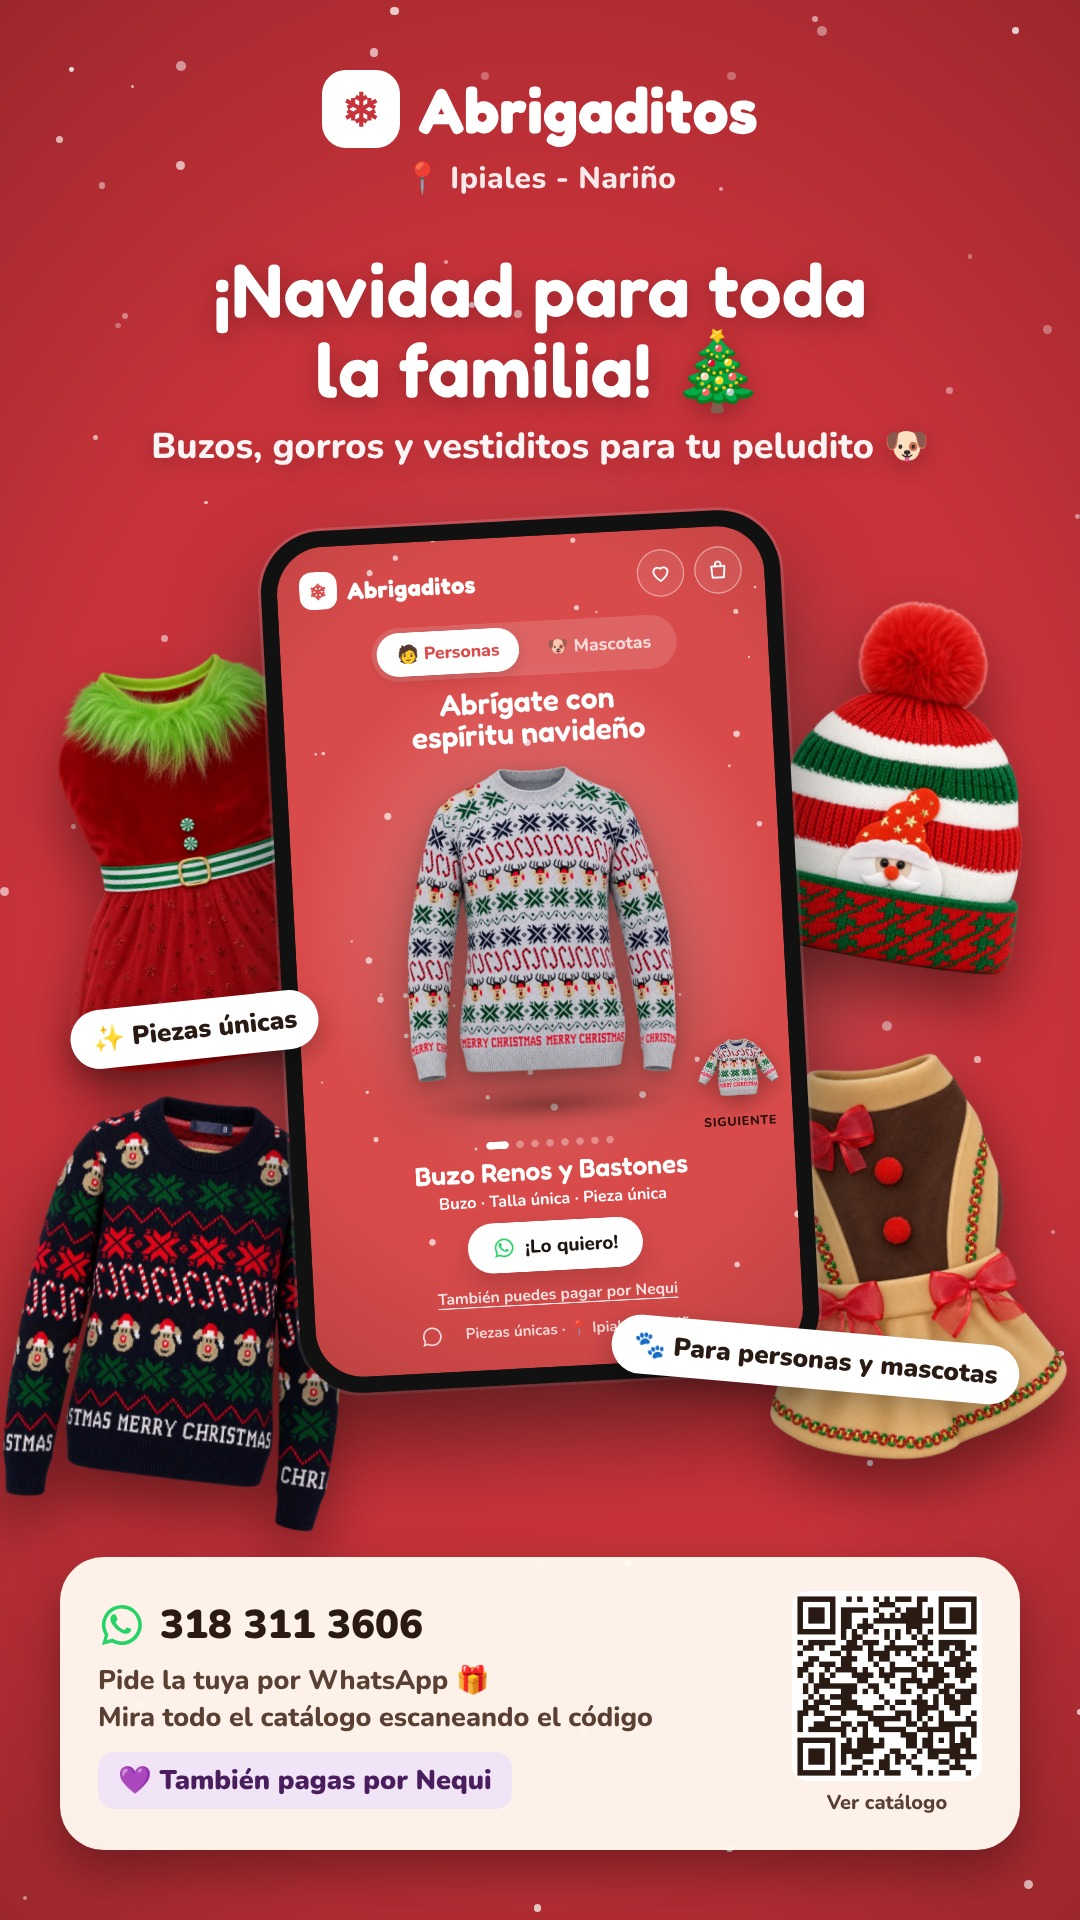
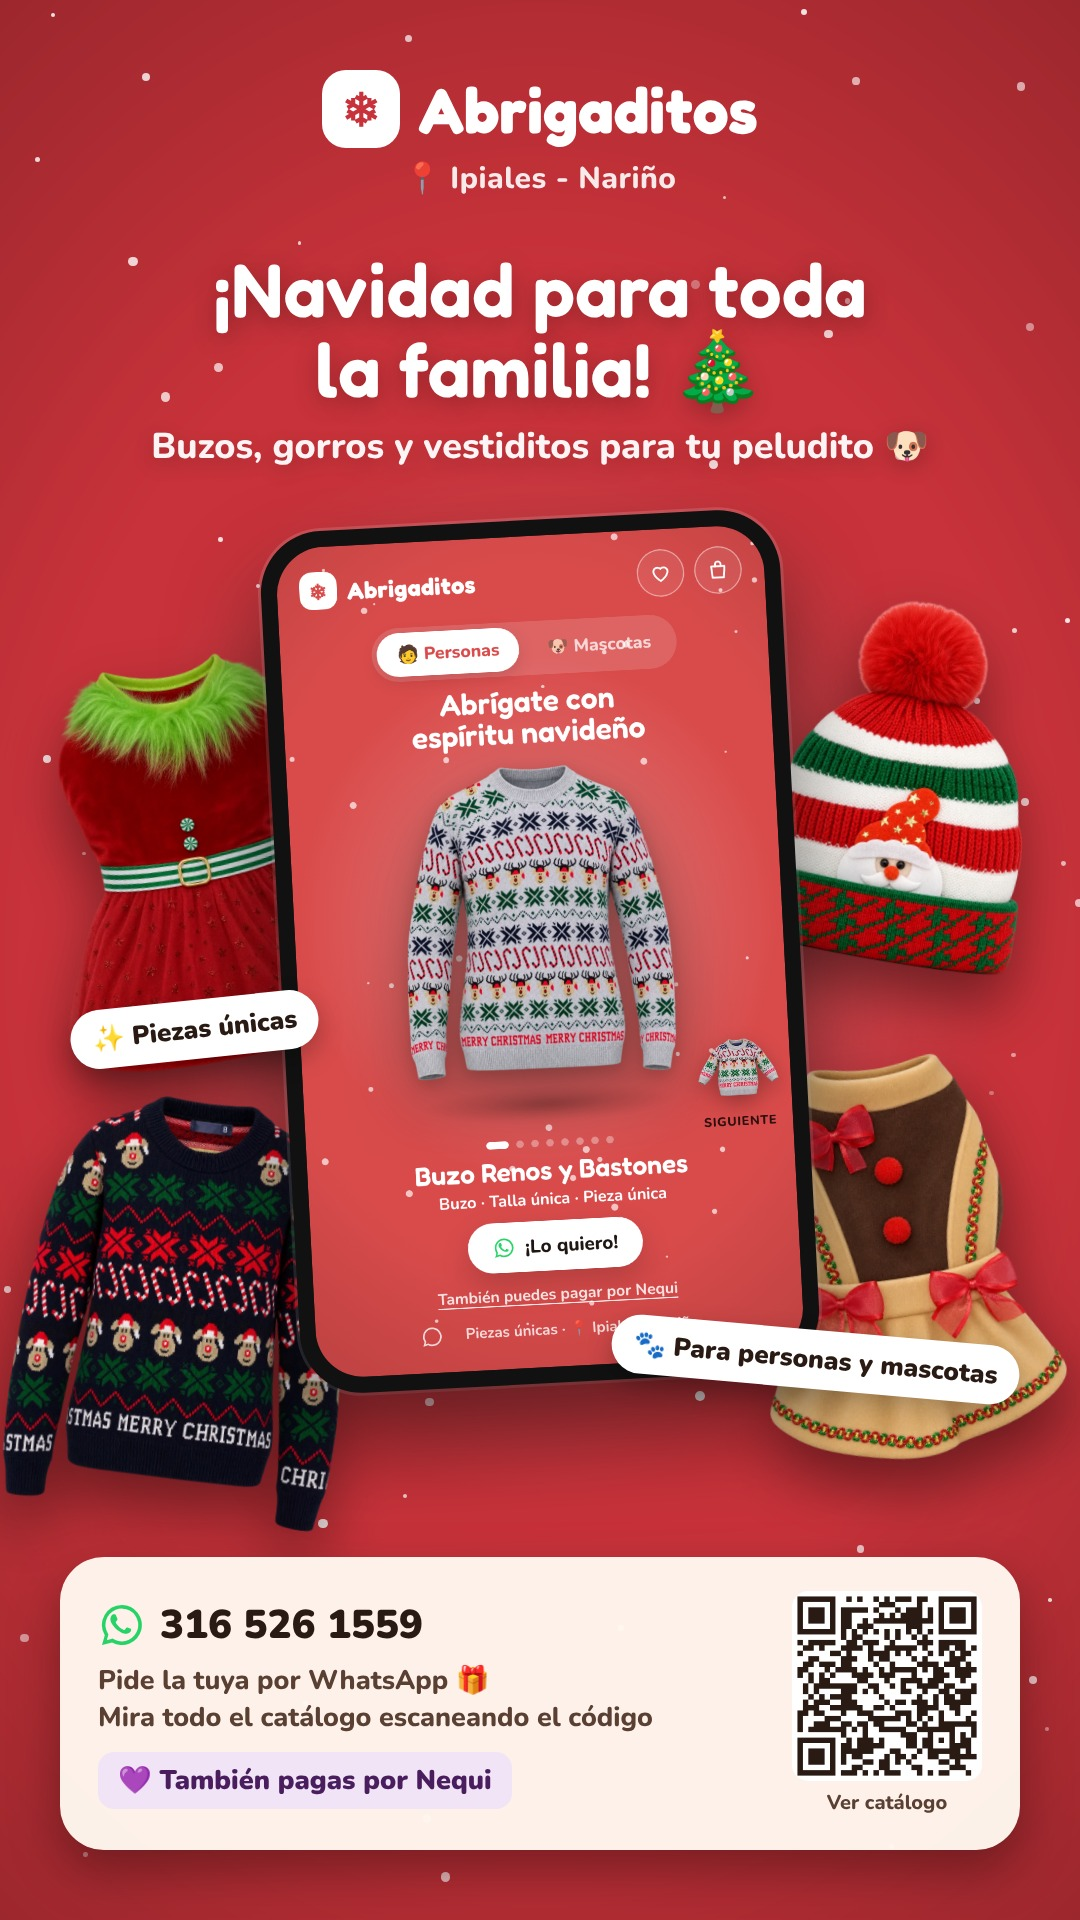
Corrige transición entre prendas y actualiza WhatsApp/Nequi a 316 526 1559
- La prenda nueva ya no aparece un instante con la foto anterior:
  se espera a que la imagen esté decodificada antes de animarla.
- Las medidas de la animación usan offset* (no las altera la
  animación de salida) y los toques rápidos se encolan.
- Número de WhatsApp, enlace wa.me y Nequi actualizados, también
  en la imagen para estados.

Claude-Session: https://claude.ai/code/session_012212wd3Q1MA1s41c9hnRRM

Changed region(s): [[0.3667, 0.4062, 0.6417, 0.5625], [0.275, 0.8438, 0.3361, 0.875], [0.3667, 0.8438, 0.3972, 0.875]]

diff --git a/index.html b/index.html
@@ -179,7 +179,7 @@ footer svg{width:18px;height:18px}
   </div>
 
   <footer>
-    <a href="https://wa.me/573183113606" target="_blank" rel="noopener" aria-label="WhatsApp">
+    <a href="https://wa.me/573165261559" target="_blank" rel="noopener" aria-label="WhatsApp">
       <svg viewBox="0 0 24 24" fill="currentColor"><path d="M12 2a10 10 0 0 0-8.6 15.1L2 22l5-1.3A10 10 0 1 0 12 2zm0 18.2c-1.5 0-3-.4-4.3-1.2l-.3-.2-3 .8.8-2.9-.2-.3A8.2 8.2 0 1 1 12 20.2z"/></svg>
     </a>
     <span style="font-size:12px;font-weight:700">Piezas únicas · 📍 Ipiales - Nariño</span>
@@ -199,8 +199,8 @@ footer svg{width:18px;height:18px}
 
 <script>
 /* ======== CONFIGURACIÓN ======== */
-const WHATSAPP = "573183113606";
-const NEQUI = "318 311 3606";            // ← aquí va el número de Nequi cuando lo tengas, ej: "300 123 4567"
+const WHATSAPP = "573165261559";
+const NEQUI = "316 526 1559";
 
 /* bg = color de fondo, ink = color del texto (claro u oscuro), price = "" hasta definirlo */
 const CATALOGO = {
@@ -242,10 +242,6 @@ const reduce = matchMedia("(prefers-reduced-motion: reduce)").matches;
 let favs=[]; try{favs=JSON.parse(localStorage.getItem("abrigaditos-favs")||"[]")}catch(e){}
 const saveFavs=()=>{try{localStorage.setItem("abrigaditos-favs",JSON.stringify(favs))}catch(e){}};
 
-// Precarga
-Object.entries(CATALOGO).forEach(([c,d])=>d.items.forEach(it=>{
-  (isPet(c)?["espalda","panza"]:["espalda"]).forEach(s=>{const i=new Image();i.src=src(it,c,s)});
-}));
 
 const items=()=>CATALOGO[cat].items;
 const wa = it => `https://wa.me/${WHATSAPP}?text=${encodeURIComponent(`¡Hola! 🎄 Me interesa el ${it.name} que vi en Abrigaditos. ¿Sigue disponible?`)}`;
@@ -282,35 +278,61 @@ function render(first){
   paintTheme(it); setImages(it); paintInfo(it); paintNext();
 }
 
-function go(dir){
-  if(busy) return; busy=true;
-  const list=items(); const newIdx=(idx+dir+list.length)%list.length;
-  const it=list[newIdx];
-  const D = reduce?1:1;
-  // 1) La prenda actual sale
-  const out=product.animate(
-    dir>0?[{transform:"translate(-50%,-50%)",opacity:1},{transform:"translate(-115%,-62%) scale(.55) rotate(-12deg)",opacity:0}]
-         :[{transform:"translate(-50%,-50%)",opacity:1},{transform:"translate(20%,-40%) scale(.55) rotate(12deg)",opacity:0}],
-    {duration:reduce?1:420,easing:"cubic-bezier(.5,0,.75,0)",fill:"forwards"});
-  paintTheme(it);
-  out.onfinish=()=>{
-    idx=newIdx; setImages(it); paintInfo(it);
-    // 2) La nueva entra desde la miniatura (adelante) o desde la izquierda (atrás)
-    const pr=product.getBoundingClientRect(), nr=nextBtn.getBoundingClientRect();
-    const dx=(nr.left+nr.width/2)-(pr.left+pr.width/2), dy=(nr.top+nr.height/2)-(pr.top+pr.height/2);
-    const s=nr.width/pr.width;
+/* Carga y decodifica una imagen antes de mostrarla (evita que se vea la prenda anterior) */
+const decoded={};
+function loadImg(url){
+  if(!decoded[url]) decoded[url]=new Promise(res=>{
+    const i=new Image(); i.src=url;
+    (i.decode?i.decode():new Promise((ok,ko)=>{i.onload=ok;i.onerror=ko})).then(res,res);
+  });
+  return decoded[url];
+}
+const wait=ms=>new Promise(r=>setTimeout(r,ms));
+const finished=a=>new Promise(r=>{a.onfinish=r;a.oncancel=r});
+
+let queued=0;
+async function go(dir){
+  if(busy){ queued=dir; return; }   // recuerda el último toque y lo ejecuta al terminar
+  busy=true;
+  const watchdog=setTimeout(()=>{busy=false},4000);   // nunca se queda trabada
+  try{
+    const list=items(); const newIdx=(idx+dir+list.length)%list.length;
+    const it=list[newIdx];
+    // Empieza a cargar las fotos nuevas mientras sale la actual
+    const ready=Promise.all([loadImg(src(it,cat,"espalda")), isPet(cat)?loadImg(src(it,cat,"panza")):null]);
+    // 1) La prenda actual sale
+    const out=product.animate(
+      dir>0?[{transform:"translate(-50%,-50%)",opacity:1},{transform:"translate(-115%,-62%) scale(.55) rotate(-12deg)",opacity:0}]
+           :[{transform:"translate(-50%,-50%)",opacity:1},{transform:"translate(20%,-40%) scale(.55) rotate(12deg)",opacity:0}],
+      {duration:reduce?1:420,easing:"cubic-bezier(.5,0,.75,0)",fill:"forwards"});
+    paintTheme(it);
+    await finished(out);
+    await Promise.race([ready, wait(2500)]);
+    idx=newIdx; setImages(it);
+    // Espera a que la foto nueva esté lista DENTRO de la página (la anterior sigue oculta)
+    await Promise.race([Promise.all([imgF.decode?imgF.decode().catch(()=>{}):null, isPet(cat)&&imgB.decode?imgB.decode().catch(()=>{}):null]), wait(2500)]);
+    paintInfo(it);
+    // 2) La nueva entra desde la miniatura (adelante) o desde la izquierda (atrás).
+    //    Se mide con offset* para que la animación anterior no altere las medidas.
+    const pw=product.offsetWidth, ph=product.offsetHeight;
+    const pcx=product.offsetLeft, pcy=product.offsetTop;            // centro (por el translate -50%)
+    const ncx=nextBtn.offsetLeft+nextBtn.offsetWidth/2, ncy=nextBtn.offsetTop+nextBtn.offsetHeight/2;
+    const dx=ncx-pcx, dy=ncy-pcy, s=Math.max(.12,nextBtn.offsetWidth/pw);
     const from = dir>0 ? `translate(calc(-50% + ${dx}px),calc(-50% + ${dy}px)) scale(${s}) rotate(10deg)`
                        : `translate(-140%,-50%) scale(.6) rotate(-10deg)`;
     const inn=product.animate([{transform:from,opacity:dir>0?1:0},{transform:"translate(-50%,-50%) scale(1.04)",opacity:1,offset:.8},{transform:"translate(-50%,-50%)",opacity:1}],
       {duration:reduce?1:720,easing:"cubic-bezier(.2,.85,.25,1)"});
     out.cancel();
     paintNext();
-    inn.onfinish=()=>{busy=false};
-  };
+    await finished(inn);
+  } finally {
+    clearTimeout(watchdog); busy=false;
+    if(queued){ const d=queued; queued=0; go(d); }
+  }
 }
 
 function flip(){
-  if(!isPet(cat)) return;
+  if(!isPet(cat)||busy) return;
   flipped=!flipped; card.classList.toggle("flipped",flipped);
   flipTxt.textContent=flipped?"Ver espalda":"Ver panza";
 }
@@ -322,10 +344,12 @@ function switchCat(c){
   const st=$("#stage"), hl=$("#headline");
   const a=st.animate([{opacity:1,transform:"none"},{opacity:0,transform:"translateY(20px) scale(.96)"}],{duration:reduce?1:280,fill:"forwards",easing:"ease-in"});
   hl.animate([{opacity:1},{opacity:0}],{duration:reduce?1:280,fill:"forwards"});
-  a.onfinish=()=>{
-    cat=c; idx=0;
+  a.onfinish=async()=>{
+    cat=c; idx=0; queued=0;
+    await Promise.race([loadImg(src(items()[0],c,"espalda")), wait(2500)]);
     hl.innerHTML=CATALOGO[c].titulo.map(t=>`<span>${t}</span>`).join("");
     render();
+    await Promise.race([imgF.decode?imgF.decode().catch(()=>{}):null, wait(2500)]);
     st.animate([{opacity:0,transform:"translateY(20px) scale(.96)"},{opacity:1,transform:"none"}],{duration:reduce?1:520,easing:"cubic-bezier(.2,.85,.25,1)",fill:"forwards"}).onfinish=()=>busy=false;
     hl.animate([{opacity:0,transform:"translateY(-8px)"},{opacity:1,transform:"none"}],{duration:reduce?1:520,fill:"forwards"});
   };
@@ -372,6 +396,10 @@ $("#stage").addEventListener("pointerup",e=>{
   })(0);
 })();
 
+// Precarga
+Object.entries(CATALOGO).forEach(([c,d])=>d.items.forEach(it=>{
+  (isPet(c)?["espalda","panza"]:["espalda"]).forEach(s=>loadImg(src(it,c,s)));
+}));
 render(true);
 </script>
 </body>
